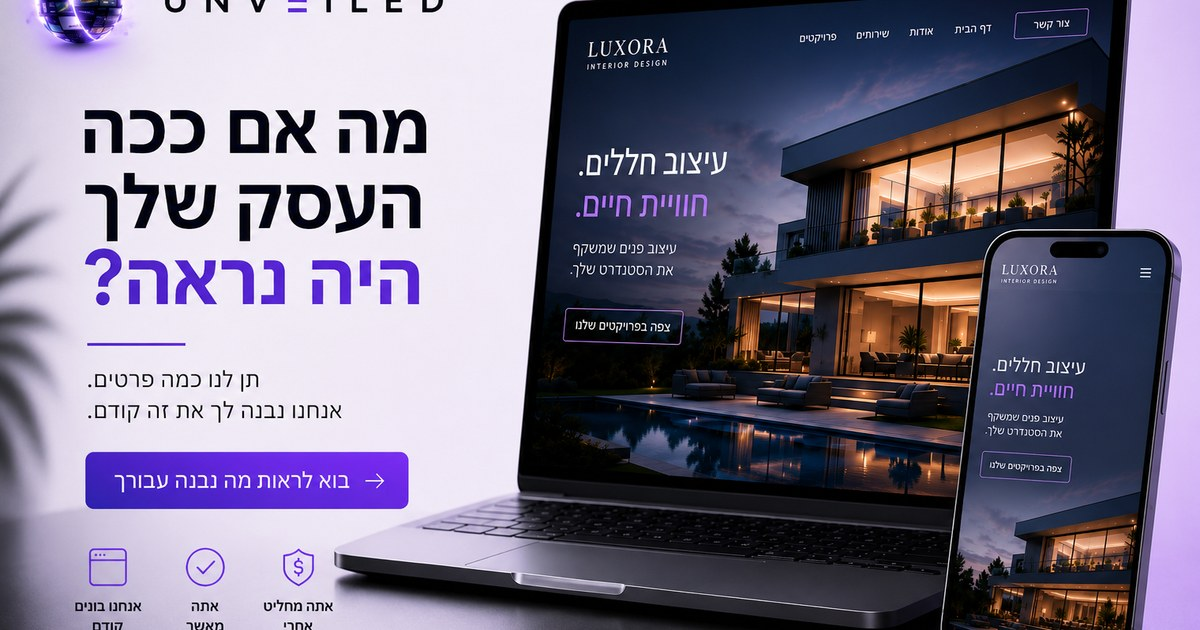
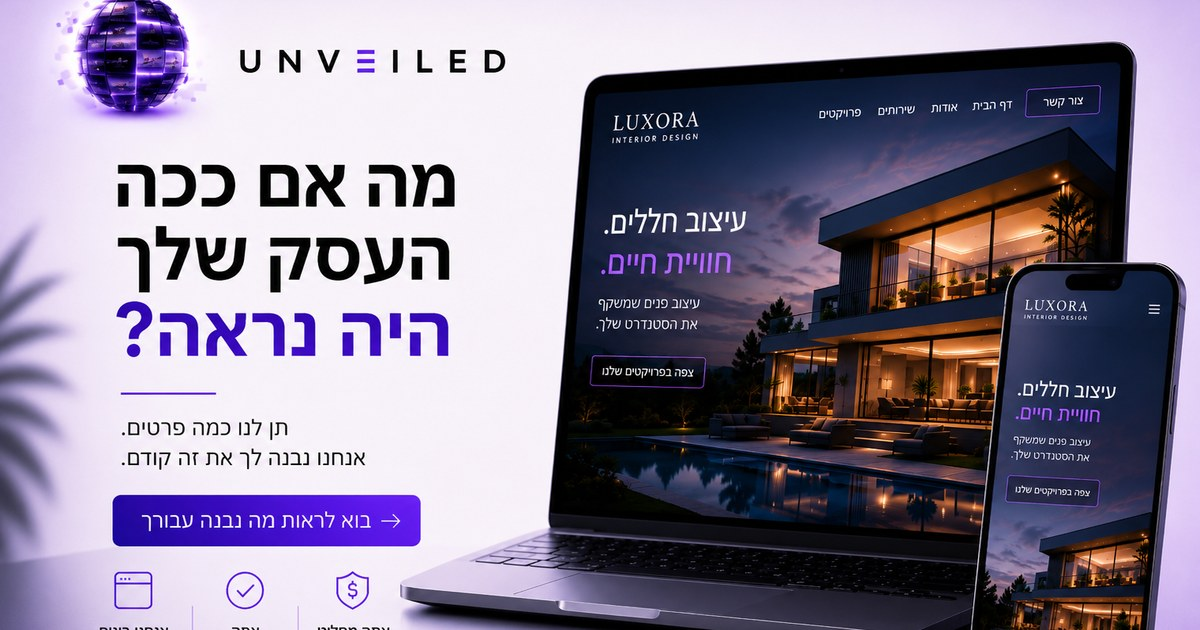
Animated sphere replaces website mockup (EN+HE+Front Door); refresh OG to latest assets (v3)

diff --git a/sphere.js b/sphere.js
@@ -1,0 +1,102 @@
+/* ============================================================
+   UNVEILED · Animated Sphere engine (LS-SPHERE) — ONE shared component.
+   Mounts into every <div class="unv-sphere"></div>: builds the orbit
+   (ring + upright website screens + stardust) and drives a slow,
+   continuous horizontal turn + breathing. GPU-accelerated, no jitter.
+   Pair with /sphere.css. Identical sphere everywhere it is used.
+   ============================================================ */
+(function () {
+  function init() {
+    var BASE = 'https://unveiled.pro/';
+    var reduce = window.matchMedia('(prefers-reduced-motion: reduce)').matches;
+    var TILES = [1,2,3,4,5,6].map(function (n) { return BASE + 'orbit-screen-' + n + '.png'; });
+    var TAU = Math.PI * 2;
+    var rnd = function (a, b) { return a + Math.random() * (b - a); };
+    var SPHERE_Z = 5;
+
+    var RING_BACK  = '<svg class="ss-ring ss-ring-back" viewBox="0 0 100 100" preserveAspectRatio="none"><ellipse cx="50" cy="50" rx="49" ry="18"/></svg>';
+    var RING_FRONT = '<svg class="ss-ring ss-ring-front" viewBox="0 0 100 100" preserveAspectRatio="none"><path d="M1.5,50 A48.5,18 0 0 0 98.5,50"/></svg>';
+
+    // Build inner markup for each placeholder.
+    document.querySelectorAll('.unv-sphere').forEach(function (host) {
+      if (host.querySelector('.sphere-sys')) return; // already mounted
+      var alt = host.getAttribute('data-alt') || 'UNVEILED';
+      host.innerHTML =
+        '<div class="sphere-sys">' +
+          '<div class="ss-glow"></div>' +
+          '<div class="ss-orbit"></div>' +
+          '<div class="ss-core"><div class="ss-core-f">' +
+            '<img class="ss-core-i" src="' + BASE + 'sphere-core.png" alt="' + alt + '" />' +
+          '</div><div class="ss-sheen"></div></div>' +
+        '</div>';
+    });
+
+    var systems = [];
+    document.querySelectorAll('.sphere-sys').forEach(function (sys) {
+      var orbit = sys.querySelector('.ss-orbit');
+      if (!orbit || orbit.getAttribute('data-built')) return;
+      orbit.setAttribute('data-built', '1');
+      orbit.innerHTML = '';
+      orbit.insertAdjacentHTML('beforeend', RING_BACK);
+      var els = [];
+      for (var i = 0; i < 6; i++) {
+        var im = document.createElement('img');
+        im.className = 'orbit-screen'; im.src = TILES[i]; im.alt = '';
+        orbit.appendChild(im);
+        els.push({ el: im, phase: i / 6, spd: 1.0, rx: rnd(0.97, 1.03), ry: rnd(0.96, 1.04), wob: 0.006, wf: rnd(0.35, 0.6), size: 1.0 });
+      }
+      for (var j = 0; j < 4; j++) {
+        var im2 = document.createElement('img');
+        im2.className = 'orbit-screen mini'; im2.src = TILES[(j * 2) % 6]; im2.alt = '';
+        orbit.appendChild(im2);
+        els.push({ el: im2, phase: (j / 4) + 0.11, spd: 1.26, rx: rnd(0.82, 0.95), ry: rnd(1.0, 1.12), wob: 0.012, wf: rnd(0.5, 0.85), size: 1.0 });
+      }
+      for (var k = 0; k < 12; k++) {
+        var d = document.createElement('span');
+        d.className = 'orbit-dot';
+        orbit.appendChild(d);
+        els.push({ el: d, phase: Math.random(), spd: rnd(1.4, 1.75), rx: rnd(0.78, 1.12), ry: rnd(0.85, 1.18), wob: rnd(0.02, 0.04), wf: rnd(0.6, 1.3), size: rnd(0.5, 1.1), dot: true });
+      }
+      orbit.insertAdjacentHTML('beforeend', RING_FRONT);
+      systems.push({ sys: sys, els: els, core: sys.querySelector('.ss-core-i') });
+    });
+    if (!systems.length) return;
+
+    var start = performance.now();
+    function frame(now) {
+      var t = (now - start) / 1000;
+      for (var s = 0; s < systems.length; s++) {
+        var sysObj = systems[s], sys = sysObj.sys, els = sysObj.els, core = sysObj.core;
+        var w = sys.clientWidth, h = sys.clientHeight;
+        if (!w) continue;
+        if (core) {
+          var sa = reduce ? 0 : -(12 * Math.sin(t * 0.10) + 6 * Math.sin(t * 0.063 + 1.2));
+          core.style.transform = 'rotateY(' + sa.toFixed(2) + 'deg)';
+        }
+        var A = w * 0.50, B = h * 0.18;
+        for (var e = 0; e < els.length; e++) {
+          var o = els[e];
+          var ang = (reduce ? 0.7 : t * 0.20 * o.spd) + o.phase * TAU;
+          var wob = o.wob * Math.sin(t * o.wf + o.phase * TAU) * h;
+          var x = A * o.rx * Math.cos(ang);
+          var y = B * o.ry * Math.sin(ang) + wob;
+          var front = (Math.sin(ang) + 1) / 2;
+          var sc = o.size * (0.72 + 0.28 * front);
+          var op = (o.dot ? 0.3 : 0.42) + 0.55 * front;
+          var el = o.el;
+          el.style.transform = 'translate(-50%,-50%) translate(' + x.toFixed(1) + 'px,' + y.toFixed(1) + 'px) scale(' + sc.toFixed(3) + ')';
+          el.style.opacity = op.toFixed(2);
+          el.style.zIndex = front > 0.5 ? String(SPHERE_Z + 1 + Math.round(front * 6)) : String(1 + Math.round(front * 6));
+        }
+      }
+      if (!reduce) requestAnimationFrame(frame);
+    }
+    requestAnimationFrame(frame);
+  }
+
+  if (document.readyState === 'loading') {
+    document.addEventListener('DOMContentLoaded', init);
+  } else {
+    init();
+  }
+})();

diff --git a/index.html b/index.html
@@ -14,8 +14,8 @@
 <meta property="og:url" content="https://unveiled.pro/">
 <meta property="og:title" content="See your business become the one customers choose | UNVEILED">
 <meta property="og:description" content="We build your new website first, free, custom to your brand, in 72 hours. You only pay if you love it.">
-<meta property="og:image" content="https://unveiled.pro/og-image.jpg?v=2">
-<meta property="og:image:secure_url" content="https://unveiled.pro/og-image.jpg?v=2">
+<meta property="og:image" content="https://unveiled.pro/og-image.jpg?v=3">
+<meta property="og:image:secure_url" content="https://unveiled.pro/og-image.jpg?v=3">
 <meta property="og:image:type" content="image/jpeg">
 <meta property="og:image:width" content="1200">
 <meta property="og:image:height" content="630">
@@ -25,13 +25,15 @@
 <meta name="twitter:card" content="summary_large_image">
 <meta name="twitter:title" content="See your business become the one customers choose | UNVEILED">
 <meta name="twitter:description" content="We build your new website first, free, custom to your brand, in 72 hours. You only pay if you love it.">
-<meta name="twitter:image" content="https://unveiled.pro/og-image.jpg?v=2">
+<meta name="twitter:image" content="https://unveiled.pro/og-image.jpg?v=3">
 
 <link rel="icon" href="https://unveiled.pro/sphere-core.png">
 <link rel="apple-touch-icon" href="https://unveiled.pro/sphere-core.png">
 <link rel="preconnect" href="https://fonts.googleapis.com">
 <link rel="preconnect" href="https://fonts.gstatic.com" crossorigin>
 <link href="https://fonts.googleapis.com/css2?family=Space+Grotesk:wght@400;500;600;700&family=Caveat:wght@600&display=swap" rel="stylesheet">
+<link rel="stylesheet" href="https://unveiled.pro/sphere.css">
+<script src="https://unveiled.pro/sphere.js" defer></script>
 
 <script type="application/ld+json">
 {
@@ -40,7 +42,7 @@
   "name": "UNVEILED",
   "url": "https://unveiled.pro/",
   "logo": "https://unveiled.pro/unveiled-logo.png",
-  "image": "https://unveiled.pro/og-image.jpg?v=2",
+  "image": "https://unveiled.pro/og-image.jpg?v=3",
   "description": "UNVEILED is a Business Elevation Company. We build your new website first, free, custom to your brand, in 72 hours. You only pay if you love it.",
   "slogan": "You run your business. We'll take care of the digital side.",
   "email": "[email redacted]",
@@ -439,65 +441,7 @@
 
       <!-- device presentation: a real-looking premium business site (desktop + phone) -->
       <div class="stage" aria-hidden="true">
-        <span class="halo"></span>
-        <div class="browser">
-          <div class="chrome">
-            <i></i><i></i><i></i>
-            <span class="url"><svg viewBox="0 0 24 24" fill="none" stroke="currentColor" stroke-width="2.4" stroke-linecap="round" stroke-linejoin="round"><rect x="5" y="11" width="14" height="9" rx="2"/><path d="M8 11V8a4 4 0 0 1 8 0v3"/></svg>maple-grove-interiors.com</span>
-          </div>
-          <div class="site">
-            <div class="nav">
-              <span class="mark">
-                <svg class="gem" viewBox="0 0 24 24" fill="none" stroke="#6C3CE0" stroke-width="2" stroke-linecap="round" stroke-linejoin="round"><path d="M6 3h12l3 5-9 13L3 8z"/><path d="M3 8h18M9 3l-3 5 6 13 6-13-3-5"/></svg>
-                MAPLE&nbsp;GROVE
-              </span>
-              <span class="links"><span data-sk>Studio</span><span data-sk>Work</span><span data-sk>About</span></span>
-              <span class="navbtn" data-sk>Book a call</span>
-            </div>
-            <div class="shero">
-              <span class="ph-grain"></span>
-              <span class="kicker" data-sk>Interior Design Studio</span>
-              <h3 data-sk-html>Spaces that feel <em>like home.</em></h3>
-              <p class="sub" data-sk>Warm, timeless interiors designed around the way you actually live.</p>
-              <div class="sbtns"><span class="sbtn p" data-sk>View our work</span><span class="sbtn o" data-sk>Our story</span></div>
-              <div class="reviews">
-                <span class="stars">
-                  <svg viewBox="0 0 24 24" fill="currentColor"><path d="M12 3l2.5 6.1 6.5.5-5 4.2 1.6 6.4L12 17.3 5.9 20.2 7.5 13.8l-5-4.2 6.5-.5z"/></svg>
-                  <svg viewBox="0 0 24 24" fill="currentColor"><path d="M12 3l2.5 6.1 6.5.5-5 4.2 1.6 6.4L12 17.3 5.9 20.2 7.5 13.8l-5-4.2 6.5-.5z"/></svg>
-                  <svg viewBox="0 0 24 24" fill="currentColor"><path d="M12 3l2.5 6.1 6.5.5-5 4.2 1.6 6.4L12 17.3 5.9 20.2 7.5 13.8l-5-4.2 6.5-.5z"/></svg>
-                  <svg viewBox="0 0 24 24" fill="currentColor"><path d="M12 3l2.5 6.1 6.5.5-5 4.2 1.6 6.4L12 17.3 5.9 20.2 7.5 13.8l-5-4.2 6.5-.5z"/></svg>
-                  <svg viewBox="0 0 24 24" fill="currentColor"><path d="M12 3l2.5 6.1 6.5.5-5 4.2 1.6 6.4L12 17.3 5.9 20.2 7.5 13.8l-5-4.2 6.5-.5z"/></svg>
-                </span>
-                <span data-sk>Loved by local homeowners</span>
-              </div>
-            </div>
-            <div class="feat">
-              <div class="card"><div class="img"></div><div class="body"><div class="t"></div><div class="l"></div><div class="l s"></div></div></div>
-              <div class="card"><div class="img"></div><div class="body"><div class="t"></div><div class="l"></div><div class="l s"></div></div></div>
-              <div class="card"><div class="img"></div><div class="body"><div class="t"></div><div class="l"></div><div class="l s"></div></div></div>
-            </div>
-          </div>
-        </div>
-
-        <div class="phone">
-          <span class="notch"></span>
-          <div class="pscreen">
-            <div class="pnav">
-              <svg class="gem" viewBox="0 0 24 24" fill="none" stroke="#6C3CE0" stroke-width="2" stroke-linecap="round" stroke-linejoin="round"><path d="M6 3h12l3 5-9 13L3 8z"/><path d="M3 8h18"/></svg>
-              <span class="burger"><b></b><b></b><b></b></span>
-            </div>
-            <div class="phero">
-              <span class="kk" data-sk>Interior Design</span>
-              <h4 data-sk-html>Spaces that feel <em>like home.</em></h4>
-              <span class="pb" data-sk>View our work</span>
-            </div>
-            <div class="pcards"><div class="pc"></div><div class="pc"></div></div>
-          </div>
-        </div>
-
-        <div class="stagenote">
-          <svg viewBox="0 0 24 24" fill="none" stroke="currentColor" stroke-width="2" stroke-linecap="round" stroke-linejoin="round"><path d="M3 11l18-5-7 18-2.5-7.5z"/></svg><span data-sk>Yours could look like this.</span>
-        </div>
+        <div class="unv-sphere" data-alt="UNVEILED"></div>
       </div>
     </section>
   </main>

diff --git a/sphere.css b/sphere.css
@@ -1,0 +1,60 @@
+/* ============================================================
+   UNVEILED · Animated Sphere — ONE reusable component (LS-SPHERE)
+   The primary visual identity. Replaces all website-mockup art.
+   Usage: <div class="unv-sphere"></div>  (+ load /sphere.js)
+   Optional size: <div class="unv-sphere sm"></div> or .xs
+   Identical to the finalized hero sphere. GPU-accelerated, calm.
+   ============================================================ */
+.unv-sphere{width:100%;display:flex;align-items:center;justify-content:center}
+
+/* the system: glow (back) + orbit ring of upright screens (mid) + sphere (front) */
+.sphere-sys{position:relative;width:100%;max-width:540px;aspect-ratio:1 / 0.9;perspective:1600px;margin:0 auto}
+.unv-sphere.sm .sphere-sys{max-width:360px}
+.unv-sphere.xs .sphere-sys{max-width:230px}
+
+/* soft breathing glow */
+.ss-glow{position:absolute;top:50%;left:50%;width:72%;height:72%;transform:translate(-50%,-50%);
+  border-radius:50%;pointer-events:none;z-index:1;
+  background:radial-gradient(circle,rgba(140,90,245,0.40) 0%,rgba(108,60,224,0.16) 40%,transparent 70%);
+  filter:blur(22px);animation:ssGlow 7s ease-in-out infinite;will-change:transform,opacity}
+@keyframes ssGlow{0%,100%{opacity:.62;transform:translate(-50%,-50%) scale(.96)}50%{opacity:1;transform:translate(-50%,-50%) scale(1.04)}}
+
+/* orbit container — no stacking context, so screens interleave front/behind the sphere */
+.ss-orbit{position:absolute;inset:0;pointer-events:none}
+.ss-ring{position:absolute;inset:0;width:100%;height:100%;pointer-events:none;overflow:visible}
+.ss-ring-back{z-index:3}
+.ss-ring-front{z-index:7}
+.ss-ring ellipse,.ss-ring path{fill:none;stroke:rgba(178,138,252,0.42);stroke-width:1px;
+  vector-effect:non-scaling-stroke;filter:drop-shadow(0 0 3px rgba(150,100,245,0.55))}
+.ss-ring-front path{stroke:rgba(196,162,255,0.5)}
+
+.orbit-screen{position:absolute;top:50%;left:50%;width:24%;max-width:130px;height:auto;
+  will-change:transform,opacity;pointer-events:none;transform:translate(-50%,-50%)}
+.orbit-screen.mini{width:13.5%;max-width:76px}
+.orbit-dot{position:absolute;top:50%;left:50%;width:7px;height:7px;border-radius:50%;
+  pointer-events:none;will-change:transform,opacity;transform:translate(-50%,-50%);
+  background:radial-gradient(circle,rgba(222,200,255,0.95) 0%,rgba(150,100,245,0.5) 70%,transparent 100%);
+  box-shadow:0 0 8px rgba(150,100,245,0.75)}
+
+/* sphere — gentle continuous left/right turn (driven by JS), slow + breathing */
+.ss-core{position:absolute;inset:0;display:flex;align-items:center;justify-content:center;z-index:5;will-change:transform;transition:transform .45s ease-out}
+.ss-core-f{display:flex;align-items:center;justify-content:center;width:100%;height:100%;animation:ssFloat 20s ease-in-out infinite}
+.ss-core-i{width:62%;height:auto;filter:drop-shadow(0 24px 54px rgba(80,40,160,0.42));transform-style:preserve-3d;will-change:transform}
+@keyframes ssFloat{0%,100%{transform:translateY(0) scale(1)}50%{transform:translateY(-8px) scale(1.028)}}
+
+/* shifting highlight — light catching the sphere (premium reflection) */
+.ss-sheen{position:absolute;top:50%;left:50%;width:60%;height:60%;transform:translate(-50%,-50%);
+  border-radius:50%;overflow:hidden;z-index:6;pointer-events:none;mix-blend-mode:screen;opacity:1}
+.ss-sheen::before{content:'';position:absolute;width:80%;height:80%;border-radius:50%;
+  background:radial-gradient(circle,rgba(224,205,255,0.78) 0%,rgba(172,135,255,0.26) 45%,transparent 72%);
+  filter:blur(8px);animation:ssSheen 8s linear infinite;will-change:transform,opacity}
+@keyframes ssSheen{
+  0%{transform:translate(34%,-28%) scale(1.0);opacity:0.55}
+  25%{transform:translate(40%,24%) scale(1.08);opacity:0.9}
+  50%{transform:translate(-12%,40%) scale(1.0);opacity:0.6}
+  75%{transform:translate(-38%,2%) scale(1.08);opacity:0.9}
+  100%{transform:translate(34%,-28%) scale(1.0);opacity:0.55}}
+
+@media (prefers-reduced-motion: reduce){
+  .ss-core-i,.ss-core-f,.ss-glow,.ss-sheen::before{animation:none !important}
+}

diff --git a/start/index.html b/start/index.html
@@ -13,8 +13,8 @@
 <meta property="og:url" content="https://unveiled.pro/start/">
 <meta property="og:title" content="What if this was your business? | UNVEILED">
 <meta property="og:description" content="People decide whether to trust your business in the first few seconds online. See what yours could look like.">
-<meta property="og:image" content="https://unveiled.pro/og-start.jpg?v=2">
-<meta property="og:image:secure_url" content="https://unveiled.pro/og-start.jpg?v=2">
+<meta property="og:image" content="https://unveiled.pro/og-start.jpg?v=3">
+<meta property="og:image:secure_url" content="https://unveiled.pro/og-start.jpg?v=3">
 <meta property="og:image:type" content="image/jpeg">
 <meta property="og:image:width" content="1200">
 <meta property="og:image:height" content="630">
@@ -22,11 +22,13 @@
 <meta name="twitter:card" content="summary_large_image">
 <meta name="twitter:title" content="What if this was your business? | UNVEILED">
 <meta name="twitter:description" content="People decide whether to trust your business in the first few seconds online. See what yours could look like.">
-<meta name="twitter:image" content="https://unveiled.pro/og-start.jpg?v=2">
+<meta name="twitter:image" content="https://unveiled.pro/og-start.jpg?v=3">
 <link rel="icon" href="https://unveiled.pro/sphere-core.png">
 <link rel="preconnect" href="https://fonts.googleapis.com">
 <link rel="preconnect" href="https://fonts.gstatic.com" crossorigin>
 <link href="https://fonts.googleapis.com/css2?family=Space+Grotesk:wght@400;500;600;700&family=Caveat:wght@600&display=swap" rel="stylesheet">
+<link rel="stylesheet" href="https://unveiled.pro/sphere.css">
+<script src="https://unveiled.pro/sphere.js" defer></script>
 <style>
   :root{
     --cream:#FAF8F5; --paper:#FFFFFF; --violet:#6C3CE0; --violet-l:#8B5CF6; --violet-lll:#A78BFA;
@@ -279,19 +281,7 @@
       </div>
       <p class="diff"><span class="s">✨</span> <span data-i18n="diff">Every website is designed specifically for your business, never from a template.</span></p>
       <div class="showcase">
-        <div class="mock" aria-hidden="true">
-          <div class="bar"><i></i><i></i><i></i><span class="u"></span></div>
-          <div class="mhero">
-            <b data-i18n="mockTitle">Your Business, Elevated</b>
-            <p data-i18n="mockSub">A modern site that finally looks as good as the work you do.</p>
-            <span class="mbtn" data-i18n="mockBtn">Get Started →</span>
-          </div>
-          <div class="mbody">
-            <div class="col"><div class="ph"></div><div class="ln"></div><div class="ln s"></div></div>
-            <div class="col"><div class="ph"></div><div class="ln"></div><div class="ln s"></div></div>
-          </div>
-        </div>
-        <div class="sphere"><img src="https://unveiled.pro/sphere-core.png" alt="UNVEILED"></div>
+        <div class="unv-sphere" data-alt="UNVEILED"></div>
       </div>
     </div>
 

diff --git a/start/he/index.html b/start/he/index.html
@@ -13,8 +13,8 @@
 <meta property="og:url" content="https://unveiled.pro/start/he/">
 <meta property="og:title" content="מה אם ככה העסק שלך היה נראה? | UNVEILED">
 <meta property="og:description" content="אנשים מחליטים אם לתת אמון בעסק שלכם בשניות הראשונות באינטרנט. בואו לראות איך שלכם יכול להיראות.">
-<meta property="og:image" content="https://unveiled.pro/og-start-he.jpg?v=2">
-<meta property="og:image:secure_url" content="https://unveiled.pro/og-start-he.jpg?v=2">
+<meta property="og:image" content="https://unveiled.pro/og-start-he.jpg?v=3">
+<meta property="og:image:secure_url" content="https://unveiled.pro/og-start-he.jpg?v=3">
 <meta property="og:image:type" content="image/jpeg">
 <meta property="og:image:width" content="1200">
 <meta property="og:image:height" content="630">
@@ -22,7 +22,7 @@
 <meta name="twitter:card" content="summary_large_image">
 <meta name="twitter:title" content="מה אם ככה העסק שלך היה נראה? | UNVEILED">
 <meta name="twitter:description" content="אנשים מחליטים אם לתת אמון בעסק שלכם בשניות הראשונות באינטרנט.">
-<meta name="twitter:image" content="https://unveiled.pro/og-start-he.jpg?v=2">
+<meta name="twitter:image" content="https://unveiled.pro/og-start-he.jpg?v=3">
 <link rel="icon" href="https://unveiled.pro/sphere-core.png">
 <script>
   // Forward real visitors to the Hebrew Front Door, preserving attribution params.